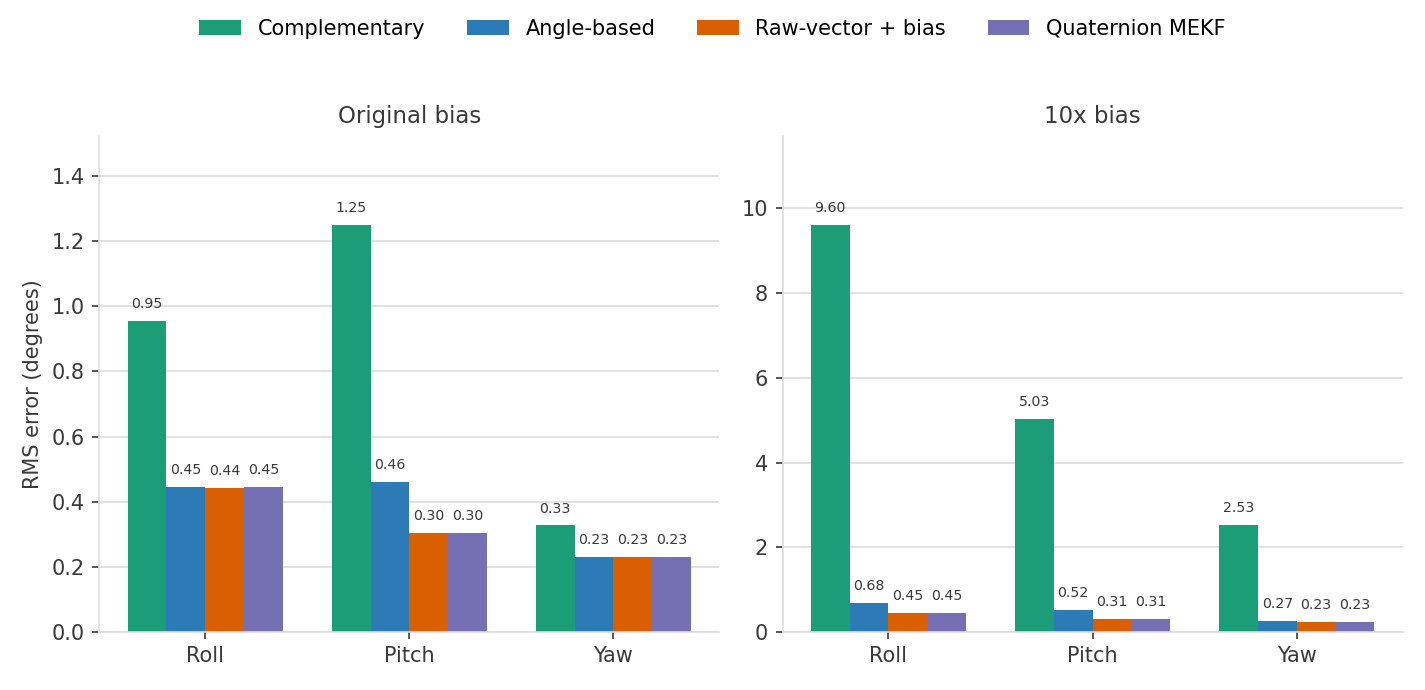
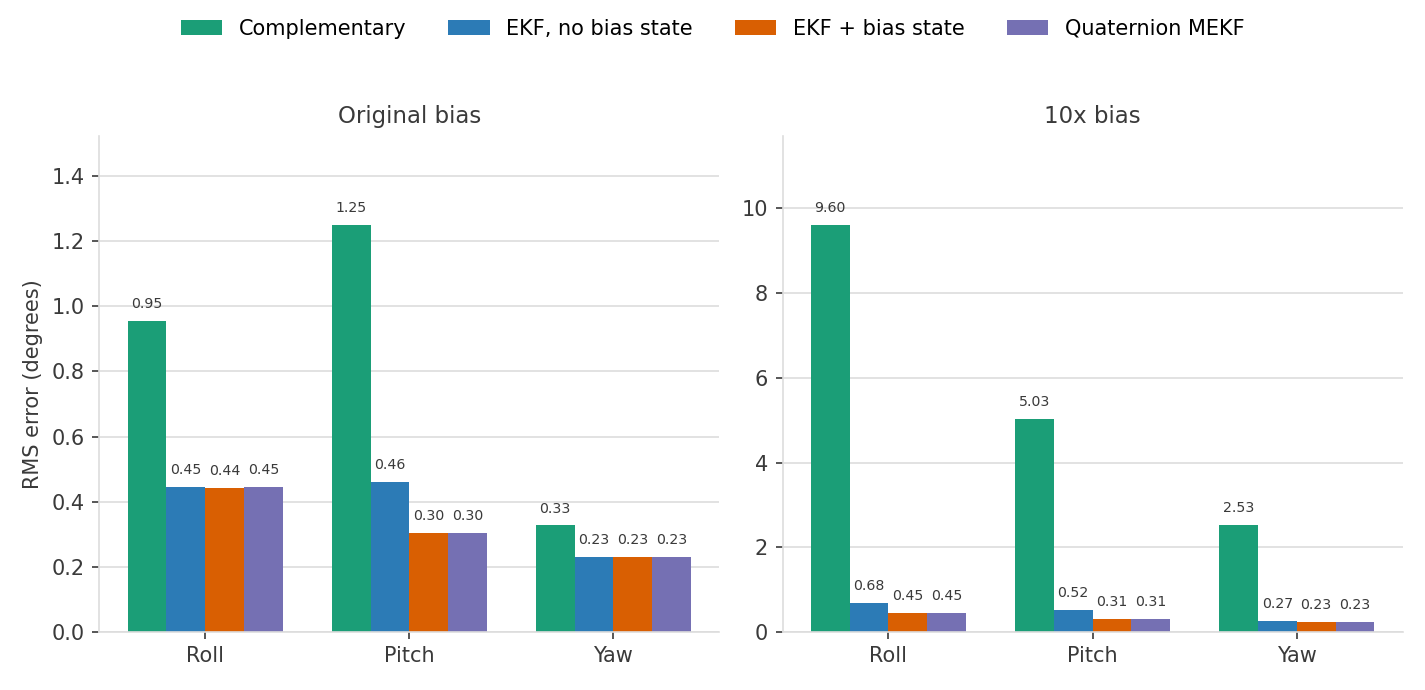
readme

Changed region(s): [[0.1235, 0.0304, 0.8646, 0.0609]]

diff --git a/state estimation/testing/plot_static.py b/state estimation/testing/plot_static.py
@@ -9,14 +9,14 @@ color_raw = "#D95F02"
 ink = "#3A3A3A"
 grid_color = "#DDDDDD"
 
-filters = ["Complementary", "Angle-based", "Raw-vector + bias"]
+filters = ["Complementary", "EKF, no bias state", "EKF + bias state"]
 colors = [color_comp, color_angle, color_raw]
 
 #(true value, {filter: converged value or None if n/a})
 panels = [
-    ("Roll", 10.0, {"Complementary": 12.65, "Angle-based": 10.14, "Raw-vector + bias": 10.03}),
-    ("Pitch", 0.0, {"Complementary": 12.55, "Angle-based": 4.8, "Raw-vector + bias": 0.017}),
-    ("Yaw", 0.0, {"Complementary": 12.54, "Angle-based": 0.86, "Raw-vector + bias": 0.003}),
+    ("Roll", 10.0, {"Complementary": 12.65, "EKF, no bias state": 10.14, "EKF + bias state": 10.03}),
+    ("Pitch", 0.0, {"Complementary": 12.55, "EKF, no bias state": 4.8, "EKF + bias state": 0.017}),
+    ("Yaw", 0.0, {"Complementary": 12.54, "EKF, no bias state": 0.86, "EKF + bias state": 0.003}),
 ]
 
 fig, axs = plt.subplots(1, 3, figsize=(10, 4.6))
@@ -42,7 +42,7 @@ for ax, (title, true_val, values) in zip(axs, panels):
 
     ax.set_title(title, fontsize=11, color=ink)
     ax.set_xticks(x)
-    ax.set_xticklabels(["Comp.", "Angle", "Raw+bias"], color=ink, fontsize=9)
+    ax.set_xticklabels(["Comp.", "EKF", "EKF+bias"], color=ink, fontsize=9)
     ax.spines["top"].set_visible(False)
     ax.spines["right"].set_visible(False)
     ax.spines["left"].set_color(grid_color)

diff --git a/state estimation/testing/plot_rms.py b/state estimation/testing/plot_rms.py
@@ -4,19 +4,19 @@ import matplotlib.pyplot as plt
 import numpy as np
 
 axes_labels = ["Roll", "Pitch", "Yaw"]
-filters = ["Complementary", "Angle-based", "Raw-vector + bias", "Quaternion MEKF"]
+filters = ["Complementary", "EKF, no bias state", "EKF + bias state", "Quaternion MEKF"]
 
 data = {
     "Original bias": {
         "Complementary": [0.954, 1.249, 0.327],
-        "Angle-based": [0.445, 0.460, 0.230],
-        "Raw-vector + bias": [0.443, 0.305, 0.229],
+        "EKF, no bias state": [0.445, 0.460, 0.230],
+        "EKF + bias state": [0.443, 0.305, 0.229],
         "Quaternion MEKF": [0.445, 0.305, 0.230],
     },
     "10x bias": {
         "Complementary": [9.603, 5.029, 2.534],
-        "Angle-based": [0.681, 0.521, 0.268],
-        "Raw-vector + bias": [0.449, 0.308, 0.229],
+        "EKF, no bias state": [0.681, 0.521, 0.268],
+        "EKF + bias state": [0.449, 0.308, 0.229],
         "Quaternion MEKF": [0.452, 0.308, 0.231],
     },
 }

diff --git a/README.md b/README.md
@@ -31,7 +31,7 @@ The weighting alone doesn't remove bias, though. That takes adding the gyro bias
 
 ![Static test comparison](state%20estimation/testing/static_comparison.png)
 
-| | Complementary filter | EKF (angle-based) | EKF (raw-vector + bias) |
+| | Complementary filter | EKF, no bias state | EKF + bias state |
 |---|---|---|---|
 | Converged roll (true: 10°) | ~12.6–12.7° | ~10.14° | ~10.03° |
 | Converged pitch (true: 0°, isolated single-axis test) | ~12.55° | ~4.8° | ~0.017° |
@@ -52,13 +52,13 @@ All three filters run against identical trajectory + sensor stream (same RNG see
 | Gyro bias | Filter | Roll RMS | Pitch RMS | Yaw RMS |
 |---|---|---|---|---|
 | Original (2, -1, 0.5°/s) | Complementary | 0.954° | 1.249° | 0.327° |
-| Original | Angle-based | 0.445° | 0.460° | 0.230° |
-| Original | Raw-vector + bias | 0.443° | 0.305° | 0.229° |
+| Original | EKF, no bias state | 0.445° | 0.460° | 0.230° |
+| Original | EKF + bias state | 0.443° | 0.305° | 0.229° |
 | 10x larger | Complementary | 9.603° | 5.029° | 2.534° |
-| 10x larger | Angle-based | 0.681° | 0.521° | 0.268° |
-| 10x larger | Raw-vector + bias | 0.449° | 0.308° | 0.229° |
+| 10x larger | EKF, no bias state | 0.681° | 0.521° | 0.268° |
+| 10x larger | EKF + bias state | 0.449° | 0.308° | 0.229° |
 
-Complementary is already visibly worse at original bias (fixed weight, no computed gain), and falls apart at 10x bias (roll RMS 9.6°) while both EKFs do way better, since since they're actively canceling the bias rather than just tolerating it.
+Complementary is already visibly worse at original bias (fixed weight, no computed gain), and falls apart at 10x bias (roll RMS 9.6°) while both EKFs do way better, since they're actively canceling the bias rather than just tolerating it.
 
 ### 2. Quaternion attitude (MEKF) instead of Euler angles (`quaternarions.py`)
 
